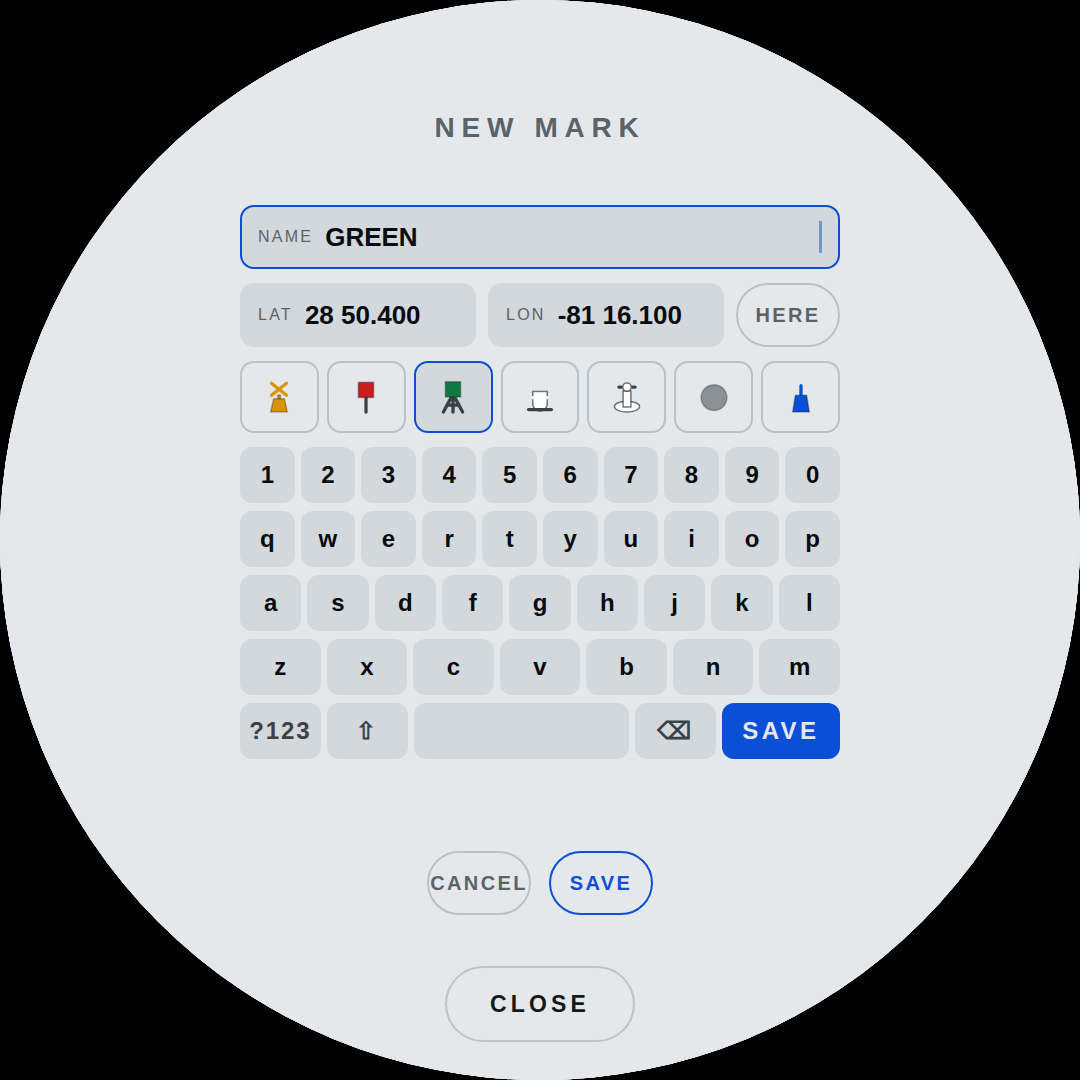
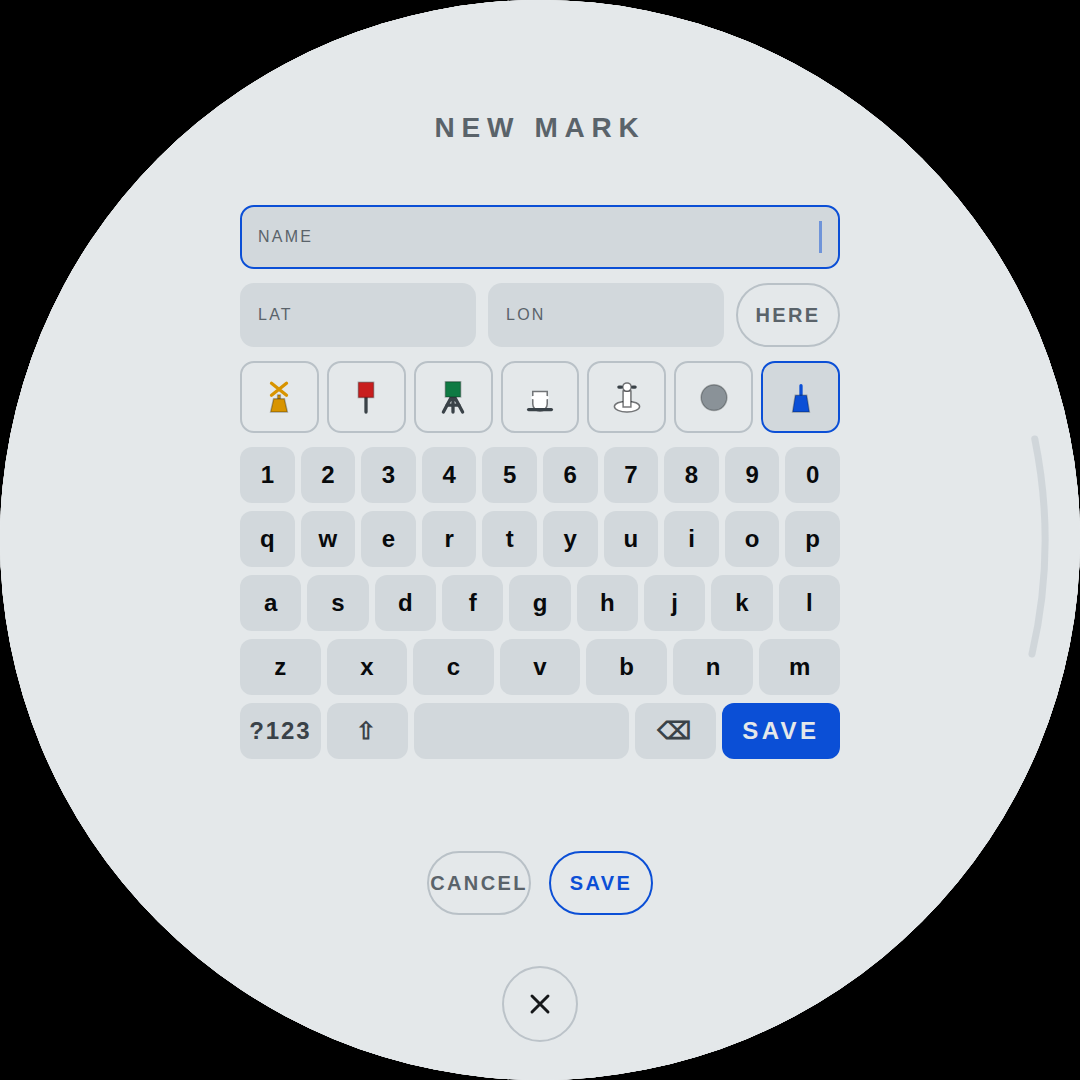
The list turns on a drum, and CLOSE becomes a cross
Two things, both of them the same argument: a round face should stop
borrowing the furniture of a rectangular one.

THE DRUM. A list that scrolls flat is a window cut in the glass. The
marks grid and the race library now turn instead - rows tip away as they
reach the top and the bottom, go smaller and go dim, and the row you are
looking at is the one square on. perspective goes on the scroller rather
than on each row, so every row is seen from one place, the middle of the
box; that is what makes the four tiles across a grid row come out at the
same angle and read as one surface.

Only a box with more in it than it can show turns. Flat means you are
looking at all of it, curved means it goes round - so the curve is a
third thing on the face saying there is more, beside the lit track and
the faded edge, and it says it before you have touched anything.

drumPaint() is the whole of it: u is a row's distance from the middle as
a fraction of half the box, tilt is -u*34deg, scale 1-|u|*0.11, opacity
1-|u|*0.42. 38 was too much to read at the edges, 22 was not a drum at
all. One paint per frame however many scroll events land in it. It is an
approximation of a cylinder - no translateZ putting each row on the
surface, because that needs a radius and the radius moves with the box
height - and what the eye reads is the tilt and the taper. The cost is
named in the docs: the edge rows are dimmed to 0.42, which is harder to
read in sun than a flat row was.
[…]

diff --git a/confluence_helm.html b/confluence_helm.html
@@ -287,11 +287,18 @@ text{font-variant-numeric:tabular-nums;dominant-baseline:middle}
   font-size:21px;font-weight:600;letter-spacing:.16em;text-transform:uppercase;
   white-space:nowrap;overflow:hidden;text-overflow:ellipsis;
   opacity:.92;pointer-events:none}
+/* A cross, not the word. CLOSE was 190 px of type at the foot of the
+   glass saying what the shape already says, and the foot of a circle is
+   the narrowest place there is to spend it - the two sheets above it
+   both had to lift their hints to clear the pill. Round and 76, the same
+   diameter the pill was tall, so nothing above it moves. */
 #app-close{position:absolute;bottom:38px;left:50%;transform:translateX(-50%);
-  min-width:190px;height:76px;padding:0 34px;border:2px solid var(--hairline);
+  width:76px;height:76px;padding:0;border:2px solid var(--hairline);
   border-radius:38px;background:var(--panel);color:var(--ink);
-  font-family:var(--font);font-size:23px;font-weight:600;letter-spacing:.18em;
+  display:flex;align-items:center;justify-content:center;
   opacity:.94;z-index:2}
+#app-close svg{width:32px;height:32px;fill:none;stroke:currentColor;
+  stroke-width:2.2;stroke-linecap:round}
 #app-close:active{background:var(--chip)}
 #app-msg{display:none;position:absolute;top:50%;left:50%;
   transform:translate(-50%,-50%);width:560px;
@@ -515,6 +522,22 @@ text{font-variant-numeric:tabular-nums;dominant-baseline:middle}
    leading edge - top, or left on the row that scrolls sideways - and
    .over-z the trailing one; at 0 the gradient's two stops meet and
    there is no fade at all, which is how an edge switches off. */
+/* ---- the drum -------------------------------------------------------
+   A list that scrolls flat is a window cut in the glass. On a round face
+   it can be the face itself turning instead: rows tip away as they reach
+   the top and the bottom, go smaller and go dim, and the one you are
+   looking at is the one square on. It is the same shape as the buoy you
+   are looking for out there - a thing you see part of because the rest
+   of it has gone round.
+   Only a box with more in it than it can show turns. Flat means you are
+   looking at all of it; curved means it goes round, which is one more
+   thing on the face saying so before you have touched anything.
+   perspective on the scroller and not on each row, so every row is seen
+   from one place - the middle of the box - which is what makes them read
+   as one surface rather than as rows that each happen to be tilted. */
+.cv-grid.over,.lib-list.over{perspective:900px;perspective-origin:50% 50%}
+.cv-grid > *,.lib-list > *{transform-origin:50% 50%}
+
 .cv-grid,.lib-list,.approw{--fa:0px; --fz:0px}
 .over-a{--fa:26px}
 .over-z{--fz:34px}
@@ -1201,14 +1224,15 @@ a.lib-row{text-decoration:none;color:inherit}
    narrowest part of the circle - 637 px of text into a 491 px chord, so
    73 px fell off each end. Lift it to where the chord is 629 px and set
    a smaller face, which leaves ~100 px of clearance.                  */
-/* Clear of the app's CLOSE button, which now stands where this used to
+/* Clear of the app's close button, which now stands where this used to
    have the foot of the glass to itself. */
 #lib-hint{bottom:176px;font-size:19px;letter-spacing:.12em}
 .t-stats b{display:block;font-size:44px;font-weight:600;color:var(--ink)}
 .t-stats span{font-size:18px;font-weight:600;letter-spacing:.16em;color:var(--label)}
-/* 150 from the foot, not 104: the app host's CLOSE pill tops out 115
+/* 150 from the foot, not 104: the app host's close button tops out 115
    from the foot, and at 104 the hint's descenders sat on it. Both sheets
-   share this, so both lift. */
+   share this, so both lift. It is a cross on a 76 px disc now rather
+   than a 190 px pill, but it is the same height, so this still holds. */
 .t-hint{position:absolute;bottom:150px;left:0;right:0;text-align:center;
   font-size:22px;letter-spacing:.2em;color:var(--label);opacity:.7}
 
@@ -1777,7 +1801,7 @@ a.lib-row{text-decoration:none;color:inherit}
    drawn in the SVG at the matching y - the face is a 1080 viewBox over a
    1080 stage, so the coordinates line up exactly. */
 /* The track map had one of these too, back when it was a page you could
-   be locked on. It is an app now and wears the app's CLOSE button in
+   be locked on. It is an app now and wears the app's close button in
    that exact spot, so a second control there was one too many. */
 #m-lock{position:absolute;left:50%;bottom:91px;transform:translateX(-50%)}
 
@@ -2161,7 +2185,8 @@ document.body.className = THEME_EFF==='day' ? '' : THEME_EFF;
   <div id="app-body"></div>
   <div id="app-msg"></div>
   <div id="app-name">App</div>
-  <button id="app-close">CLOSE</button>
+  <button id="app-close" aria-label="Close">
+    <svg viewBox="0 0 24 24"><path d="M6 6l12 12M18 6L6 18"/></svg></button>
 </div>
 
 <div id="panel">
@@ -7977,11 +8002,50 @@ function rimDraw(el, moving){
   clearTimeout(rimOff);
   rimOff=setTimeout(()=>$('arc').classList.remove('on'), 900);
 }
-/* Wire a box up: it fades at its edges and it draws the arc. passive,
-   because none of this touches the scroll it is describing. */
+/* ---- the drum ---------------------------------------------------------
+   Where each row sits on the cylinder. u is how far it is from the
+   middle of the box, as a fraction of half the box: 0 square on, ±1 at
+   the edge. Everything else is that one number.
+   38 degrees was too much to read at the edges and 22 was not a drum at
+   all; 34 is the one that turns without costing you the row.
+   The transform is an approximation of a cylinder rather than the real
+   thing - rotate, shrink, dim, with no translateZ to put the row on the
+   actual surface. The honest version needs a radius, and a radius needs
+   the box height, and the box height changes with the theme's line
+   spacing. What the eye is reading here is the tilt and the taper; the
+   missing depth is a pixel or two at the edges. */
+const DRUM_TILT=34, DRUM_SHRINK=.11, DRUM_DIM=.42, DRUM_EDGE=1.4;
+function drumPaint(el){
+  if(!el || !el.clientHeight) return;
+  const on=el.classList.contains('over');
+  const H=el.clientHeight, mid=el.scrollTop+H/2, half=H/2;
+  for(const k of el.children){
+    if(!on){ if(k.style.transform){ k.style.transform=''; k.style.opacity=''; }
+             continue; }
+    const c=k.offsetTop+k.offsetHeight/2;
+    let u=(c-mid)/half;
+    /* Rows well past the edge are not on screen at all. Park them at the
+       edge's own values rather than working out a tilt nobody sees. */
+    u=Math.max(-DRUM_EDGE,Math.min(DRUM_EDGE,u));
+    const a=Math.abs(u);
+    k.style.transform='rotateX('+(-u*DRUM_TILT).toFixed(2)+'deg) scale('
+                     +(1-a*DRUM_SHRINK).toFixed(3)+')';
+    k.style.opacity=(1-a*DRUM_DIM).toFixed(3);
+  }
+}
+/* One paint per frame however many scroll events arrive in it. */
+let drumReq=0, drumEl=null;
+function drumTick(el){
+  drumEl=el; if(drumReq) return;
+  drumReq=requestAnimationFrame(()=>{ drumReq=0; drumPaint(drumEl); });
+}
+
+/* Wire a box up: it turns, it fades at its edges, and it draws the arc.
+   passive, because none of this touches the scroll it is describing. */
 function rimWatch(el,arc=true){
   if(!el) return;
-  el.addEventListener('scroll',()=>{ scrollFit(el); if(arc) rimDraw(el,true); },
+  el.addEventListener('scroll',()=>{ scrollFit(el); drumTick(el);
+                                     if(arc) rimDraw(el,true); },
                       {passive:true});
 }
 ['p-sheet','course-list','lib-list'].forEach(id=>rimWatch($(id)));
@@ -9014,7 +9078,7 @@ function renderCourse(){
       +'<s'+(moved?' class="moved"':'')+'>'+esc(sub)+'</s></div>'
       +badge+(courseEdit?'<div class="grip">≡</div>':'')+'</button>'; };
   box.innerHTML=MARKS.map(tile).join('');
-  scrollFit(box); rimDraw(box);
+  scrollFit(box); drumPaint(box); rimDraw(box);
 
   /* The five settings, read at a glance. The corner glyph says what kind
      of control it is: a chevron opens a menu, a plus steps, and the
@@ -9048,7 +9112,10 @@ const crsTitle=t=>{ $('course-title').textContent=t||'Course'; };
 /* The arc on the way in: a box that scrolls says so once as it opens,
    the way the fade at its edge does, and then gets out of the way. */
 function openCourse(){ $('t-course').classList.add('on'); crsTitle(); renderCourse();
-  setTimeout(()=>rimDraw($('course-list')),60); }
+  /* Measured after the sheet is up: a box that is display:none has no
+     height, and every row would come out at the same angle. */
+  setTimeout(()=>{ scrollFit($('course-list')); drumPaint($('course-list'));
+                   rimDraw($('course-list')); },60); }
 /* Both sheets live in the same overlay, so one close serves both - and
    the arc, which belongs to whichever of them was up. */
 
@@ -9651,7 +9718,7 @@ function renderLib(){
          </div>`).join('');
     }
     box.innerHTML = o || '<div class="lib-empty">NO SAVED RACES</div>';
-    scrollFit(box); rimDraw(box);
+    scrollFit(box); drumPaint(box); rimDraw(box);
   });
 }
 

diff --git a/docs/display.md b/docs/display.md
@@ -667,6 +667,45 @@ is not reaching across.
 The dock's row scrolls sideways, so its fade runs the other way and it
 gets no arc: the rim is a vertical idea.
 
+### The drum
+
+A list that scrolls flat is a window cut in the glass. On a round face
+it can be the face itself turning instead, and that is what the marks
+grid and the race library do: rows tip away as they reach the top and
+the bottom, go smaller and go dim, and the row you are looking at is the
+one square on. It is the same shape as the buoy you are looking for out
+there — a thing you see part of because the rest of it has gone round.
+
+**Only a box with more in it than it can show turns.** Flat means you
+are looking at all of it; curved means it goes round. So the curve is
+itself one more thing on the face saying there is more, before you have
+touched anything — the same job as the lit track and the faded edge,
+said a third way.
+
+`perspective` goes on the scroller, not on each row, so every row is
+seen from one place — the middle of the box. That is what makes them
+read as one surface rather than as rows that each happen to be tilted,
+and it is why the four tiles across a grid row come out at the same
+angle.
+
+`drumPaint()` is the whole of it. `u` is how far a row's centre is from
+the middle of the box as a fraction of half the box: 0 square on, ±1 at
+the edge. Tilt is `−u × 34°`, scale is `1 − |u| × 0.11`, opacity is
+`1 − |u| × 0.42`. 38° was too much to read at the edges and 22° was not
+a drum at all. It is an approximation of a cylinder rather than the real
+thing — there is no `translateZ` putting each row on the actual surface,
+because that needs a radius and the radius moves with the box height.
+What the eye reads is the tilt and the taper; the missing depth is a
+pixel or two at the edges.
+
+One paint per frame however many scroll events land in it, via
+`drumTick()` and a single `requestAnimationFrame`.
+
+The cost is real and worth naming: the rows at the edges are dimmed to
+about 0.42 and shrunk, which is harder to read in sunlight than a flat
+row was. The row you are reaching for is the one square on, which is the
+bet the whole idea rests on.
+
 ### Scrolling against the gesture judge
 
 The scroller shares its glass with the gesture judge, which is the

diff --git a/docs/tracks.md b/docs/tracks.md
@@ -112,10 +112,10 @@ same mistake — furniture that belonged to a page still standing where
 the app's own chrome now goes:
 
 - **the map's lock button**, which sat at the foot of the glass exactly
-  where `CLOSE` does now. A page you could be locked on needed it; an
-  app does not.
+  where the app's close cross does now. A page you could be locked on
+  needed it; an app does not.
 - **the library's hint line**, which had the foot to itself and was
-  underneath `CLOSE`. It has moved up, and now says what the two row
+  underneath it. It has moved up, and now says what the two row
   buttons do rather than repeating how to close a sheet.
 
 The chart also ran into the numbers: the clip circle reached y=665 with
